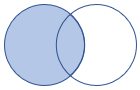
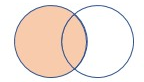
Fix images

diff --git a/data-explorer/kusto/query/join-operator.md b/data-explorer/kusto/query/join-operator.md
@@ -3,7 +3,7 @@ title:  join operator
 description: Learn how to use the join operator to merge the rows of two tables. 
 ms.reviewer: alexans
 ms.topic: reference
-ms.date: 08/16/2023
+ms.date: 05/27/2024
 ms.localizationpriority: high 
 zone_pivot_group_filename: data-explorer/zone-pivot-groups.json
 zone_pivot_groups: kql-flavors-all
@@ -14,7 +14,7 @@ Merge the rows of two tables to form a new table by matching values of the speci
 
 Kusto Query Language (KQL) offers many kinds of joins that each affect the schema and rows in the resultant table in different ways. For example, if you use an `inner` join, the table has the same columns as the left table, plus the columns from the right table. For best performance, if one table is always smaller than the other, use it as the left side of the `join` operator.
 
-The following image provides a visual representation of the operation performed by each join.
+The following image provides a visual representation of the operation performed by each join. The colour of the shading represent the columns returned, and the areas shaded represent the rows returned.
 
 :::image type="content" source="media/joinoperator/join-kinds.png" alt-text="Diagram showing query join kinds.":::
 
